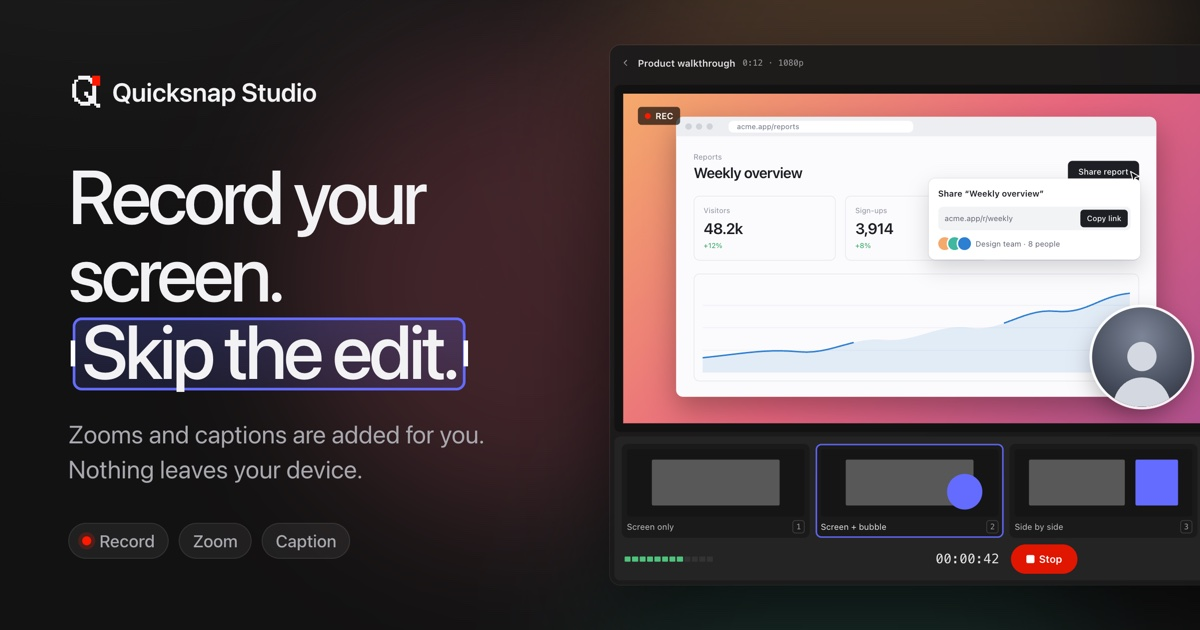
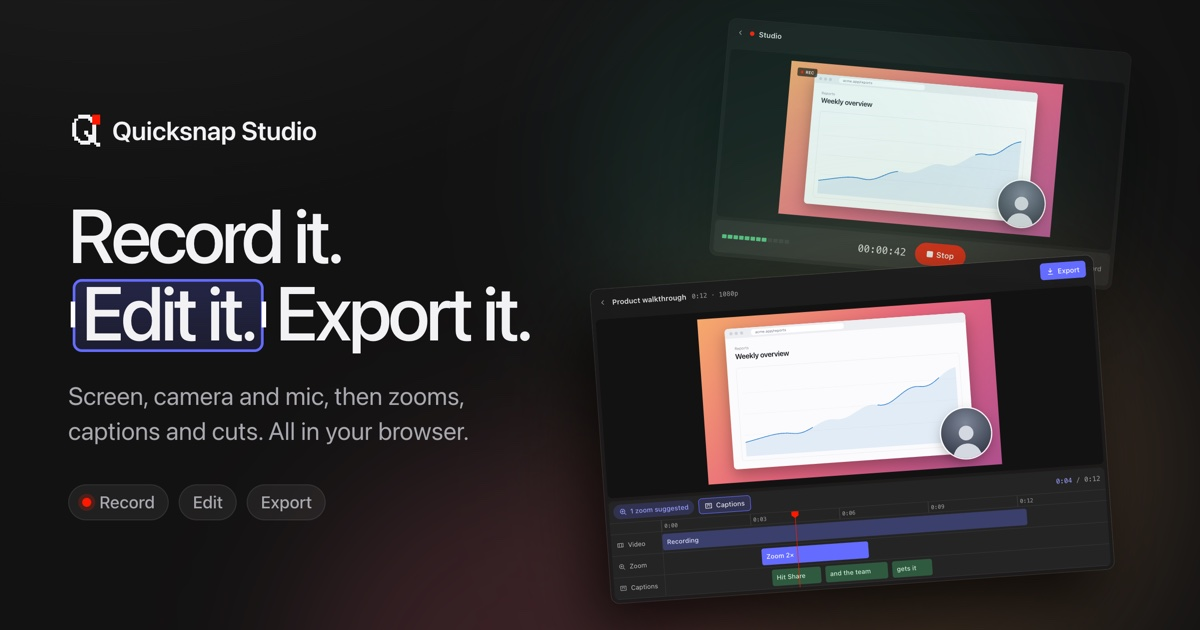
chore: open-source the project and refresh share cards
Add MIT license, CONTRIBUTING guide and GitHub issue templates; link the
repo and issue tracker from the README, landing FAQ and footer. Redraw
both OG cards as a fanned studio + editor stack with new studio copy.
Point the deploy script at the quicksnap-studio Pages project and ignore
the local .wrangler cache.

diff --git a/scripts/og/og-card.html b/scripts/og/og-card.html
@@ -3,8 +3,8 @@
   Source for the 1200x630 share cards. It pulls the live hero demo out of
   /index.html and styles it with the real landing.css, so the card always
   matches the landing page. Render both cards with: npm run og
-    ?card=home    → public/og.jpg         (the finished edit; used by /)
-    ?card=studio  → public/og-studio.jpg  (mid-recording; used by /app/)
+    ?card=home    → public/og.jpg         (used by /)
+    ?card=studio  → public/og-studio.jpg  (used by /app/)
 -->
 <html lang="en">
 <head>
@@ -27,11 +27,41 @@
   .og-chips span { height: 36px; padding: 0 14px; display: inline-flex; align-items: center; gap: 8px; border-radius: 18px; background: rgba(255, 255, 255, 0.06); box-shadow: inset 0 0 0 1px rgba(255, 255, 255, 0.08); font-size: 17px; font-weight: 500; color: var(--ink-2); }
   .og-chips .dot { width: 9px; height: 9px; border-radius: 50%; background: var(--record, #ff1900); box-shadow: 0 0 0 4px rgba(255, 25, 0, 0.2); }
 
-  /* Right: the real editor window, bleeding off the right edge like the hero */
-  .og-demo { position: absolute; left: 610px; top: 0; width: 900px; height: 630px; }
-  .og-demo .demo { position: absolute; left: 0; top: 50%; margin: 0; transform: translateY(-50%); }
-  .og-demo .demo[data-enter] { animation: none; }
-  .og-demo .bokeh { inset: -30% -20% -30% -60%; -webkit-mask-image: none; mask-image: none; }
+  /* Right: two different windows, fanned. Back: the Studio mid-take (big
+     preview + record bar). Front: the editor (preview + timeline). No
+     inspector in either, and nothing clipped except the front's right bleed. */
+  .og-stack { position: absolute; left: 590px; top: 0; width: 610px; height: 630px; }
+  .og-stack .demo { position: absolute; margin: 0; transform-origin: 0 0; height: auto; }
+  .og-stack .demo[data-enter] { animation: none; }
+  .og-stack .win { border-radius: 14px; }
+  .og-stack .w-insp { display: none; }
+  .og-stack .w-grid { grid-template-columns: minmax(0, 1fr); grid-template-areas: "viewer" "bottom"; }
+  .og-back .bokeh { display: none; }
+  .og-front .bokeh { inset: -90% -30% -30% -60%; -webkit-mask-image: none; mask-image: none; opacity: 0.8; }
+
+  .og-back { left: 140px; top: 18px; transform: rotate(5deg); }
+  .og-back .win { width: 720px; }
+  .og-back .w-meta, .og-back .w-new, .og-back .w-export, .og-back .scenes { display: none; }
+  .og-back .w-title::before { content: ""; display: inline-block; width: 8px; height: 8px; margin-right: 8px; border-radius: 50%; background: var(--record, #ff1900); vertical-align: 1px; }
+  .og-back .w-bottom { height: 58px; }
+  .og-back .w-viewer { height: 300px; }
+
+  .og-front { left: 0; top: 290px; transform: rotate(-4deg); z-index: 2; }
+  .og-front .win { width: 900px; box-shadow: 0 0 0 1px rgba(255, 255, 255, 0.14), -30px 50px 110px rgba(0, 0, 0, 0.75); }
+  .og-front .w-viewer { height: 320px; }
+  .og-front .w-bottom { height: 176px; }
+  .og-front .w-new { display: none; }
+
+  /* Quiet the recorded screen: keep the page header, chart and camera
+     bubble; drop the popup, pointer, stat tiles and burned-in caption. */
+  .og-stack .pop, .og-stack .ripple, .og-stack .p-ptr, .og-stack .cursor,
+  .og-stack .b-stats, .og-stack .canvas > .caption, .og-stack .b-share { display: none !important; }
+  .og-stack .b-chart { flex: 1; }
+  /* Fit the whole recording inside each preview pane instead of cropping it. */
+  .og-stack .stage { height: 100%; box-sizing: border-box; display: flex; justify-content: center; align-items: flex-start; }
+  .og-stack .canvas { flex: none; width: var(--cw); transform: scale(var(--fit)); transform-origin: 50% 0; }
+  .og-back { --cw: 696px; --fit: 0.7; }
+  .og-front { --cw: 876px; --fit: 0.6; }
 </style>
 </head>
 <body class="landing">
@@ -44,7 +74,7 @@
     <p class="lede" id="lede"></p>
     <p class="og-chips" id="chips"></p>
   </div>
-  <div class="og-demo" id="slot"></div>
+  <div class="og-stack" id="slot"></div>
 
 <script type="module">
   const CARDS = {
@@ -52,14 +82,12 @@
       title: 'Screen recordings that look <span class="sel"><span>edited.</span></span>',
       lede: "Record, zoom, caption and export in one browser tab.",
       chips: ["Free", "No sign-up", "No upload"],
-      phase: "edit",
     },
     studio: {
       brand: "Quicksnap Studio",
-      title: 'Record your screen. <span class="sel"><span>Skip the edit.</span></span>',
-      lede: "Zooms and captions are added for you. Nothing leaves your device.",
-      chips: ['<i class="dot"></i>Record', "Zoom", "Caption"],
-      phase: "rec",
+      title: 'Record it. <span class="sel"><span>Edit it.</span></span> Export it.',
+      lede: "Screen, camera and mic, then zooms, captions and cuts. All in your browser.",
+      chips: ['<i class="dot"></i>Record', "Edit", "Export"],
     },
   };
   const card = CARDS[new URLSearchParams(location.search).get("card")] ?? CARDS.home;
@@ -68,22 +96,34 @@
   document.getElementById("lede").textContent = card.lede;
   document.getElementById("chips").innerHTML = card.chips.map((c) => `<span>${c}</span>`).join("");
 
-  // Clone the hero demo from the landing page itself.
+  // Clone the hero demo from the landing page itself, once per window.
   const html = await (await fetch("/")).text();
-  const demo = new DOMParser().parseFromString(html, "text/html").getElementById("demo");
-  demo.dataset.phase = card.phase;
-  if (card.phase === "rec") {
-    for (const k of ["suggest", "accept", "caps", "zoom", "captions", "done"]) delete demo.dataset[k];
-    demo.querySelector(".clock").textContent = "00:00:42";
-    demo.querySelector(".rec-label").textContent = "Stop";
-  }
-  document.getElementById("slot").append(demo);
+  const src = new DOMParser().parseFromString(html, "text/html").getElementById("demo");
+  const make = (phase) => {
+    const demo = src.cloneNode(true);
+    demo.removeAttribute("id");
+    demo.dataset.phase = phase;
+    delete demo.dataset.zoom; // show the whole page, not the zoomed-in crop
+    if (phase === "rec") {
+      for (const k of ["suggest", "accept", "caps", "captions", "done"]) delete demo.dataset[k];
+      demo.querySelector(".clock").textContent = "00:00:42";
+      demo.querySelector(".rec-label").textContent = "Stop";
+      demo.querySelector(".w-title").textContent = "Studio";
+    } else {
+      delete demo.dataset.done; // show Export, not the post-export "Saved" state
+    }
+    return demo;
+  };
+  // Same stack on both cards: the take at the back, the finished edit in front.
+  const [back, front] = [make("rec"), make("edit")];
+  back.classList.add("og-back");
+  front.classList.add("og-front");
+  document.getElementById("slot").append(back, front);
 
-  // Fit the 1080px-wide window to the card's height, leaving a margin.
-  const win = demo.querySelector(".win");
-  const k = Math.min(0.78, 540 / win.offsetHeight);
-  demo.style.setProperty("--k", String(k));
-  demo.style.setProperty("--h", `${Math.round(win.offsetHeight * k)}px`);
+  for (const [demo, k] of [[back, 0.56], [front, 0.56]]) {
+    demo.style.setProperty("--k", String(k));
+    demo.style.setProperty("--h", `${Math.round(demo.querySelector(".win").offsetHeight * k)}px`);
+  }
   await document.fonts.ready;
   document.documentElement.dataset.ready = "";
 </script>

diff --git a/app/index.html b/app/index.html
@@ -11,16 +11,16 @@
     <meta property="og:site_name" content="Quicksnap" />
     <meta property="og:locale" content="en_US" />
     <meta property="og:url" content="https://quicksnap-studio.pages.dev/app/" />
-    <meta property="og:title" content="Quicksnap Studio — Record your screen. Skip the edit." />
-    <meta property="og:description" content="Record your screen, camera and mic in the browser. Zooms and captions are added for you, and nothing leaves your device." />
+    <meta property="og:title" content="Quicksnap Studio — Record it. Edit it. Export it." />
+    <meta property="og:description" content="Record your screen, camera and mic, then edit with zooms, captions and cuts, all in your browser. Nothing leaves your device." />
     <meta property="og:image" content="https://quicksnap-studio.pages.dev/og-studio.jpg" />
     <meta property="og:image:type" content="image/jpeg" />
     <meta property="og:image:width" content="1200" />
     <meta property="og:image:height" content="630" />
     <meta property="og:image:alt" content="Quicksnap Studio recording a screen with a webcam bubble." />
     <meta name="twitter:card" content="summary_large_image" />
-    <meta name="twitter:title" content="Quicksnap Studio — Record your screen. Skip the edit." />
-    <meta name="twitter:description" content="Record your screen, camera and mic in the browser. Zooms and captions are added for you, and nothing leaves your device." />
+    <meta name="twitter:title" content="Quicksnap Studio — Record it. Edit it. Export it." />
+    <meta name="twitter:description" content="Record your screen, camera and mic, then edit with zooms, captions and cuts, all in your browser. Nothing leaves your device." />
     <meta name="twitter:image" content="https://quicksnap-studio.pages.dev/og-studio.jpg" />
     <link rel="icon" href="/favicon.ico" sizes="any" />
     <link rel="icon" href="/icon.svg" type="image/svg+xml" />

diff --git a/index.html b/index.html
@@ -303,6 +303,7 @@
           <details><summary>Are my recordings uploaded anywhere?</summary><p>No. Recording, editing, captions and export all run in your browser, and files stay in your browser's storage.</p></details>
           <details><summary>Which browsers does it work in?</summary><p>Chrome and Edge get every feature. Firefox and Safari can record, edit and export, without floating controls or instant replay.</p></details>
           <details><summary>Can I record system audio?</summary><p>Yes on Windows and ChromeOS. On a Mac, browsers can only record sound from a tab, so share a tab rather than a window or the whole screen.</p></details>
+          <details><summary>Found a bug or have an idea?</summary><p>Quicksnap is open source. <a href="https://github.com/Uttsavv/quicksnap/issues/new/choose" target="_blank" rel="noopener">Open an issue on GitHub</a> with your browser and what happened, or send a pull request.</p></details>
         </div>
       </section>
     </main>
@@ -310,7 +311,11 @@
     <footer class="l-foot">
       <span>© 2026 Quicksnap</span>
       <span>Your recordings never leave your device.</span>
-      <a href="/app/">Open studio</a>
+      <span class="l-foot-links">
+        <a href="https://github.com/Uttsavv/quicksnap" target="_blank" rel="noopener">GitHub</a>
+        <a href="https://github.com/Uttsavv/quicksnap/issues/new/choose" target="_blank" rel="noopener">Report an issue</a>
+        <a href="/app/">Open studio</a>
+      </span>
     </footer>
 
     <script type="module" src="/src/landing/landing.ts"></script>

diff --git a/src/landing/landing.css b/src/landing/landing.css
@@ -553,6 +553,8 @@ h2 { font-size: clamp(30px, 3.4vw, 48px); line-height: 1.08; letter-spacing: -0.
 
 .l-foot { margin-top: 48px; padding: 32px var(--gutter); display: flex; justify-content: space-between; gap: 16px; flex-wrap: wrap; font-size: 14px; color: var(--ink-3); border-top: 1px solid var(--edge); }
 .l-foot a:hover { color: var(--ink); }
+.l-foot-links { display: flex; gap: 24px; flex-wrap: wrap; }
+.qa p a { color: var(--ink); text-decoration: underline; text-underline-offset: 3px; }
 
 /* ── Narrower ───────────────────────────────────────────────── */
 @media (max-width: 1100px) {

diff --git a/CONTRIBUTING.md b/CONTRIBUTING.md
@@ -1,0 +1,36 @@
+# Contributing to Quicksnap
+
+Thanks for helping out! Bug reports, ideas and pull requests are all welcome.
+
+## Reporting bugs and ideas
+
+[Open an issue](https://github.com/Uttsavv/quicksnap/issues/new/choose) and pick
+a template. For bugs, include your browser, OS and what you were recording
+(screen, window or tab): most problems depend on them.
+
+Security problems go through
+[private reporting](https://github.com/Uttsavv/quicksnap/security/advisories/new),
+not public issues.
+
+## Running it locally
+
+```sh
+npm install
+npm run dev        # http://localhost:5173
+npm run typecheck  # must pass before a PR
+npm run build
+```
+
+The README's *How it works* and *Code map* sections explain the layout.
+`docs/PLAN.md` has the product decisions and browser limits.
+
+## Pull requests
+
+- For anything bigger than a small fix, open an issue first so we can agree on
+  the approach before you spend time on it.
+- Keep each PR focused on one change.
+- Test in Chrome, and in Firefox or Safari too if you touched recording or export.
+- Make sure `npm run typecheck` passes.
+
+By contributing, you agree that your work is released under the
+[MIT License](LICENSE).

diff --git a/README.md b/README.md
@@ -1,5 +1,9 @@
 # Quicksnap
 
+[![License: MIT](https://img.shields.io/badge/license-MIT-blue.svg)](LICENSE)
+
+**Try it:** [quicksnap-studio.pages.dev](https://quicksnap-studio.pages.dev)
+
 Record your screen, camera and mic in the browser, then polish the recording
 with zooms, backgrounds, layouts and captions, and export it as MP4, WebM or GIF.
 Nothing is uploaded: recordings stay in the browser's storage.
@@ -67,3 +71,12 @@ same file, so deploying there needs no changes.
 | | | `⇧Z` | Fit timeline |
 | | | `⌘Z`, `⇧⌘Z` | Undo, redo |
 | | | `←` `→` | Step one frame (`⇧` = 1 s) |
+
+## Contributing
+
+Issues and pull requests are welcome. [Open an issue](https://github.com/Uttsavv/quicksnap/issues/new/choose)
+for bugs or ideas, and see [CONTRIBUTING.md](CONTRIBUTING.md) before sending a PR.
+
+## License
+
+[MIT](LICENSE)
